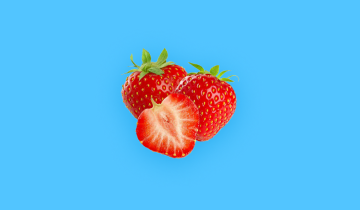
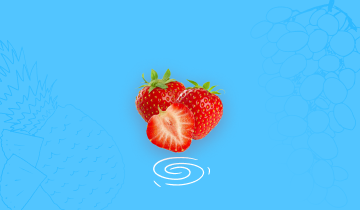
fix

diff --git a/app/components/FruitImageSection/FruitImageSection.tsx b/app/components/FruitImageSection/FruitImageSection.tsx
@@ -1,16 +1,26 @@
 import styles from './FruitImageSection.module.scss';
 import Image from 'next/image';
-import ImageMain from '../../../public/ImageMain.png';
+import ImageMainMob from '../../../public/ImageMainMob.png';
+import ImageMainDesk from '../../../public/ImageMainDesk.png';
 
 const FruitImageSection = () => {
   return (
-    <Image
-      src={ImageMain}
-      width={270}
-      height={360}
-      className={styles.fruitImageSection}
-      alt='Picture of the author'
-    />
+    <>
+      <Image
+        src={ImageMainDesk}
+        width={340}
+        height={304}
+        className={styles.fruitImageSectionDesk}
+        alt='Picture of the author'
+      />
+      <Image
+        src={ImageMainMob}
+        width={340}
+        height={304}
+        className={styles.fruitImageSectionMob}
+        alt='Picture of the author'
+      />
+    </>
   );
 };
 

diff --git a/app/components/FruitImageSection/FruitImageSection.module.scss b/app/components/FruitImageSection/FruitImageSection.module.scss
@@ -1,17 +1,26 @@
-.fruitImageSection {
+.fruitImageSectionDesk {
   width: 270px;
   height: 360px;
   border-radius: 12px;
   box-shadow: 4px 4px 10px 0px rgba(12, 118, 178, 0.25), -4px -4px 10px 0px rgba(12, 118, 178, 0.25);
 }
 
+.fruitImageSectionMob {
+  display: none;
+}
+
 /* Mobile */
 @media (max-width: 700px) {
-  .fruitImageSection {
+  .fruitImageSectionMob {
+    display: block;
     margin-top: 8px;
-    width: 280px;
-    height: 360px;
+    width: 340px;
+    height: 304px;
     border-radius: 12px;
     box-shadow: 4px 4px 10px 0px rgba(12, 118, 178, 0.25), -4px -4px 10px 0px rgba(12, 118, 178, 0.25);
+  }
+
+  .fruitImageSectionDesk {
+    display: none;
   }
 }

diff --git a/app/components/FruitParamsSection/FruitParamsSection.module.scss b/app/components/FruitParamsSection/FruitParamsSection.module.scss
@@ -42,7 +42,7 @@
 /* Mobile */
 @media (max-width: 700px) {
   .fruitParamsSection {
-    width: 280px;
+    width: 340px;
     height: fit-content;
     margin-left: 0px;
     display: flex;
@@ -52,7 +52,7 @@
     box-sizing: border-box;
   
     .fruitParamsSectionHeader {
-      width: 280px;
+      width: 340px;
       height: 50px;
       margin-bottom: 8px;
       padding: 4px 8px 4px 8px;
@@ -67,7 +67,7 @@
       
       &:hover {
         box-shadow: 2px 2px 10px 0px rgba(26, 153, 226, 0.15), -2px -2px 10px 0px rgba(26, 153, 226, 0.15);
-        width: 100%;
+        width: 340px;
       }
   
       .fruitParamsSectionTitle {

diff --git a/app/about/page.tsx b/app/about/page.tsx
@@ -12,8 +12,7 @@ export default function About() {
     <div className={styles.aboutContainer}>
       <AboutMainBlock />
       <div className={styles.aboutPagePic}>
-        <span className={styles.aboutPagePicSpanOne}>Have a good time :)</span>
-        <span className={styles.aboutPagePicSpanTwo}>Best wishes!</span>
+        <span className={styles.aboutPagePicSpan}>Have a good time :)</span>
       </div>
     </div>
   );

diff --git a/app/components/FruitParamsCard/FruitParamsCard.module.scss b/app/components/FruitParamsCard/FruitParamsCard.module.scss
@@ -34,7 +34,7 @@
 /* Mobile */
 @media (max-width: 700px) {
   .fruitParamsCard {
-    width: 280px;
+    width: 340px;
     height: 338px;
     border-radius: 12px;
     background: #12a6f1;
@@ -47,7 +47,7 @@
   
     &:hover {
       box-shadow: 2px 2px 10px 0px rgba(26, 153, 226, 0.15), -2px -2px 10px 0px rgba(26, 153, 226, 0.15);
-      width: 100%;
+      width: 340px;
     }
   
     .fruitParamsCardTitle {

diff --git a/app/about/About.module.scss b/app/about/About.module.scss
@@ -38,12 +38,8 @@
       padding-top: 20px;
       padding-bottom: 20px;
 
-      .aboutPagePicSpanOne {
-        color: white;
-        font-size: 14px;
-      }
-
-      .aboutPagePicSpanTwo {
+      .aboutPagePicSpan {
+        margin-top: 16px;
         color: white;
         font-size: 14px;
       }
